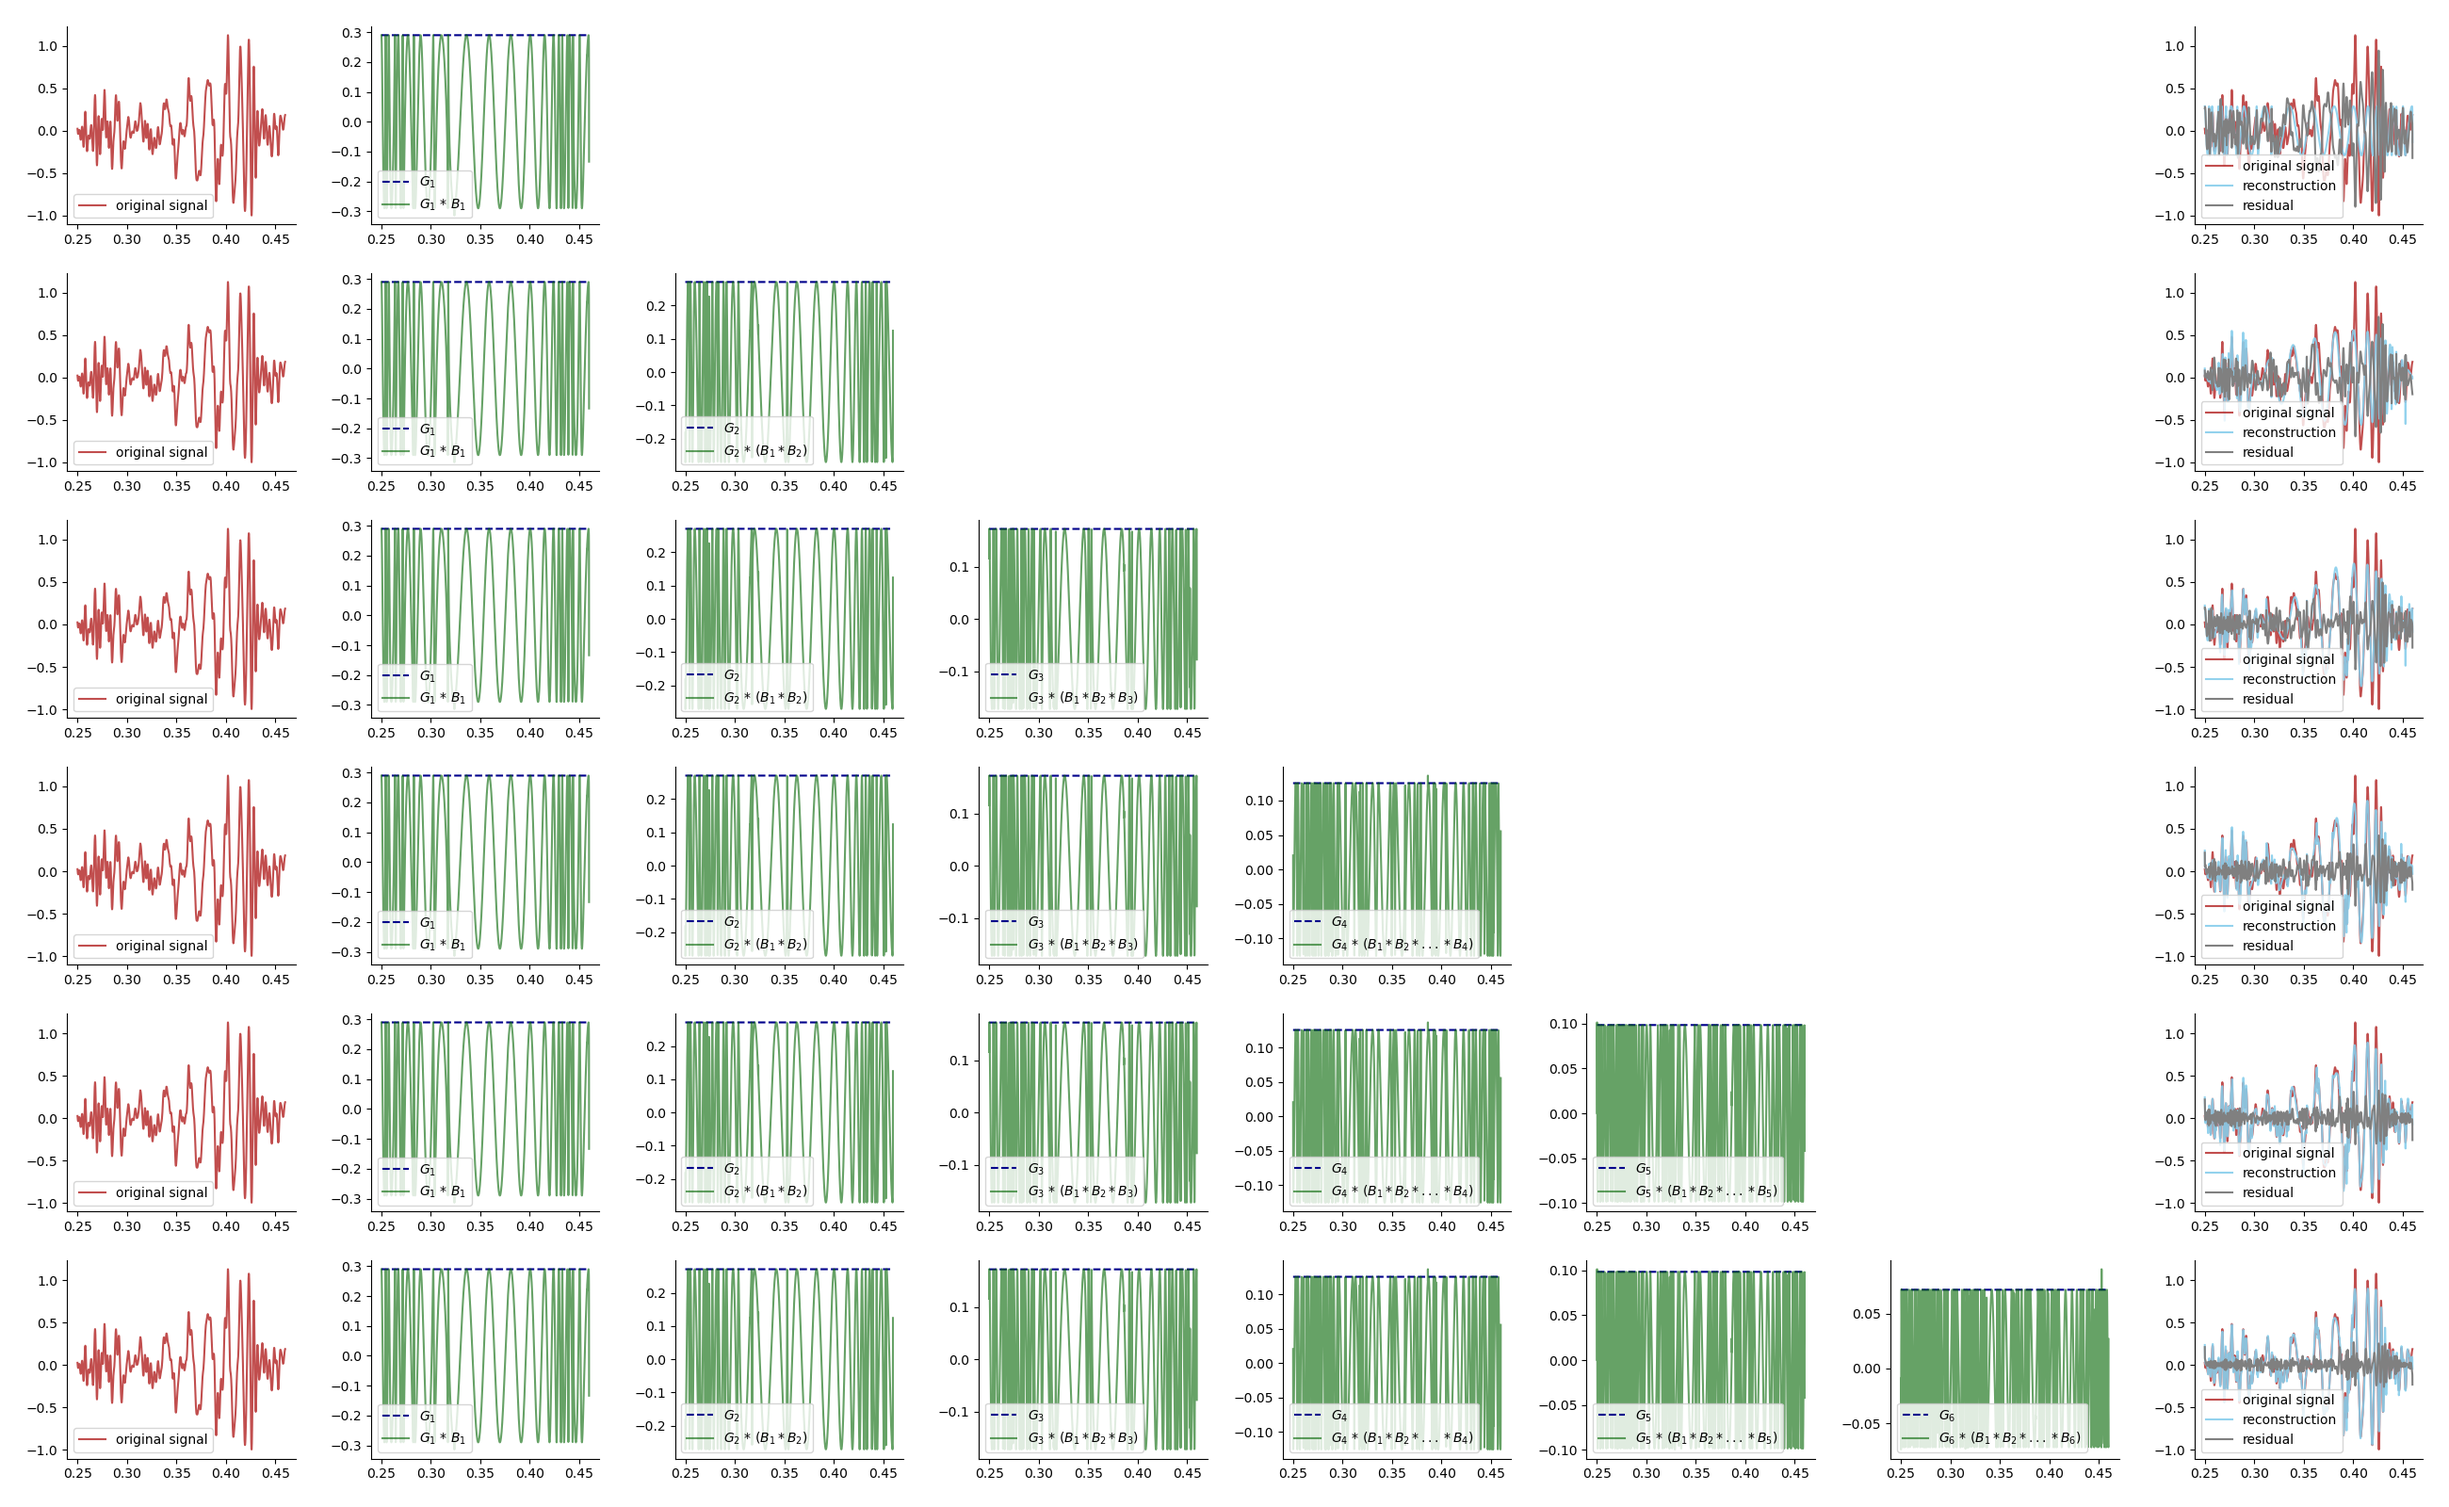
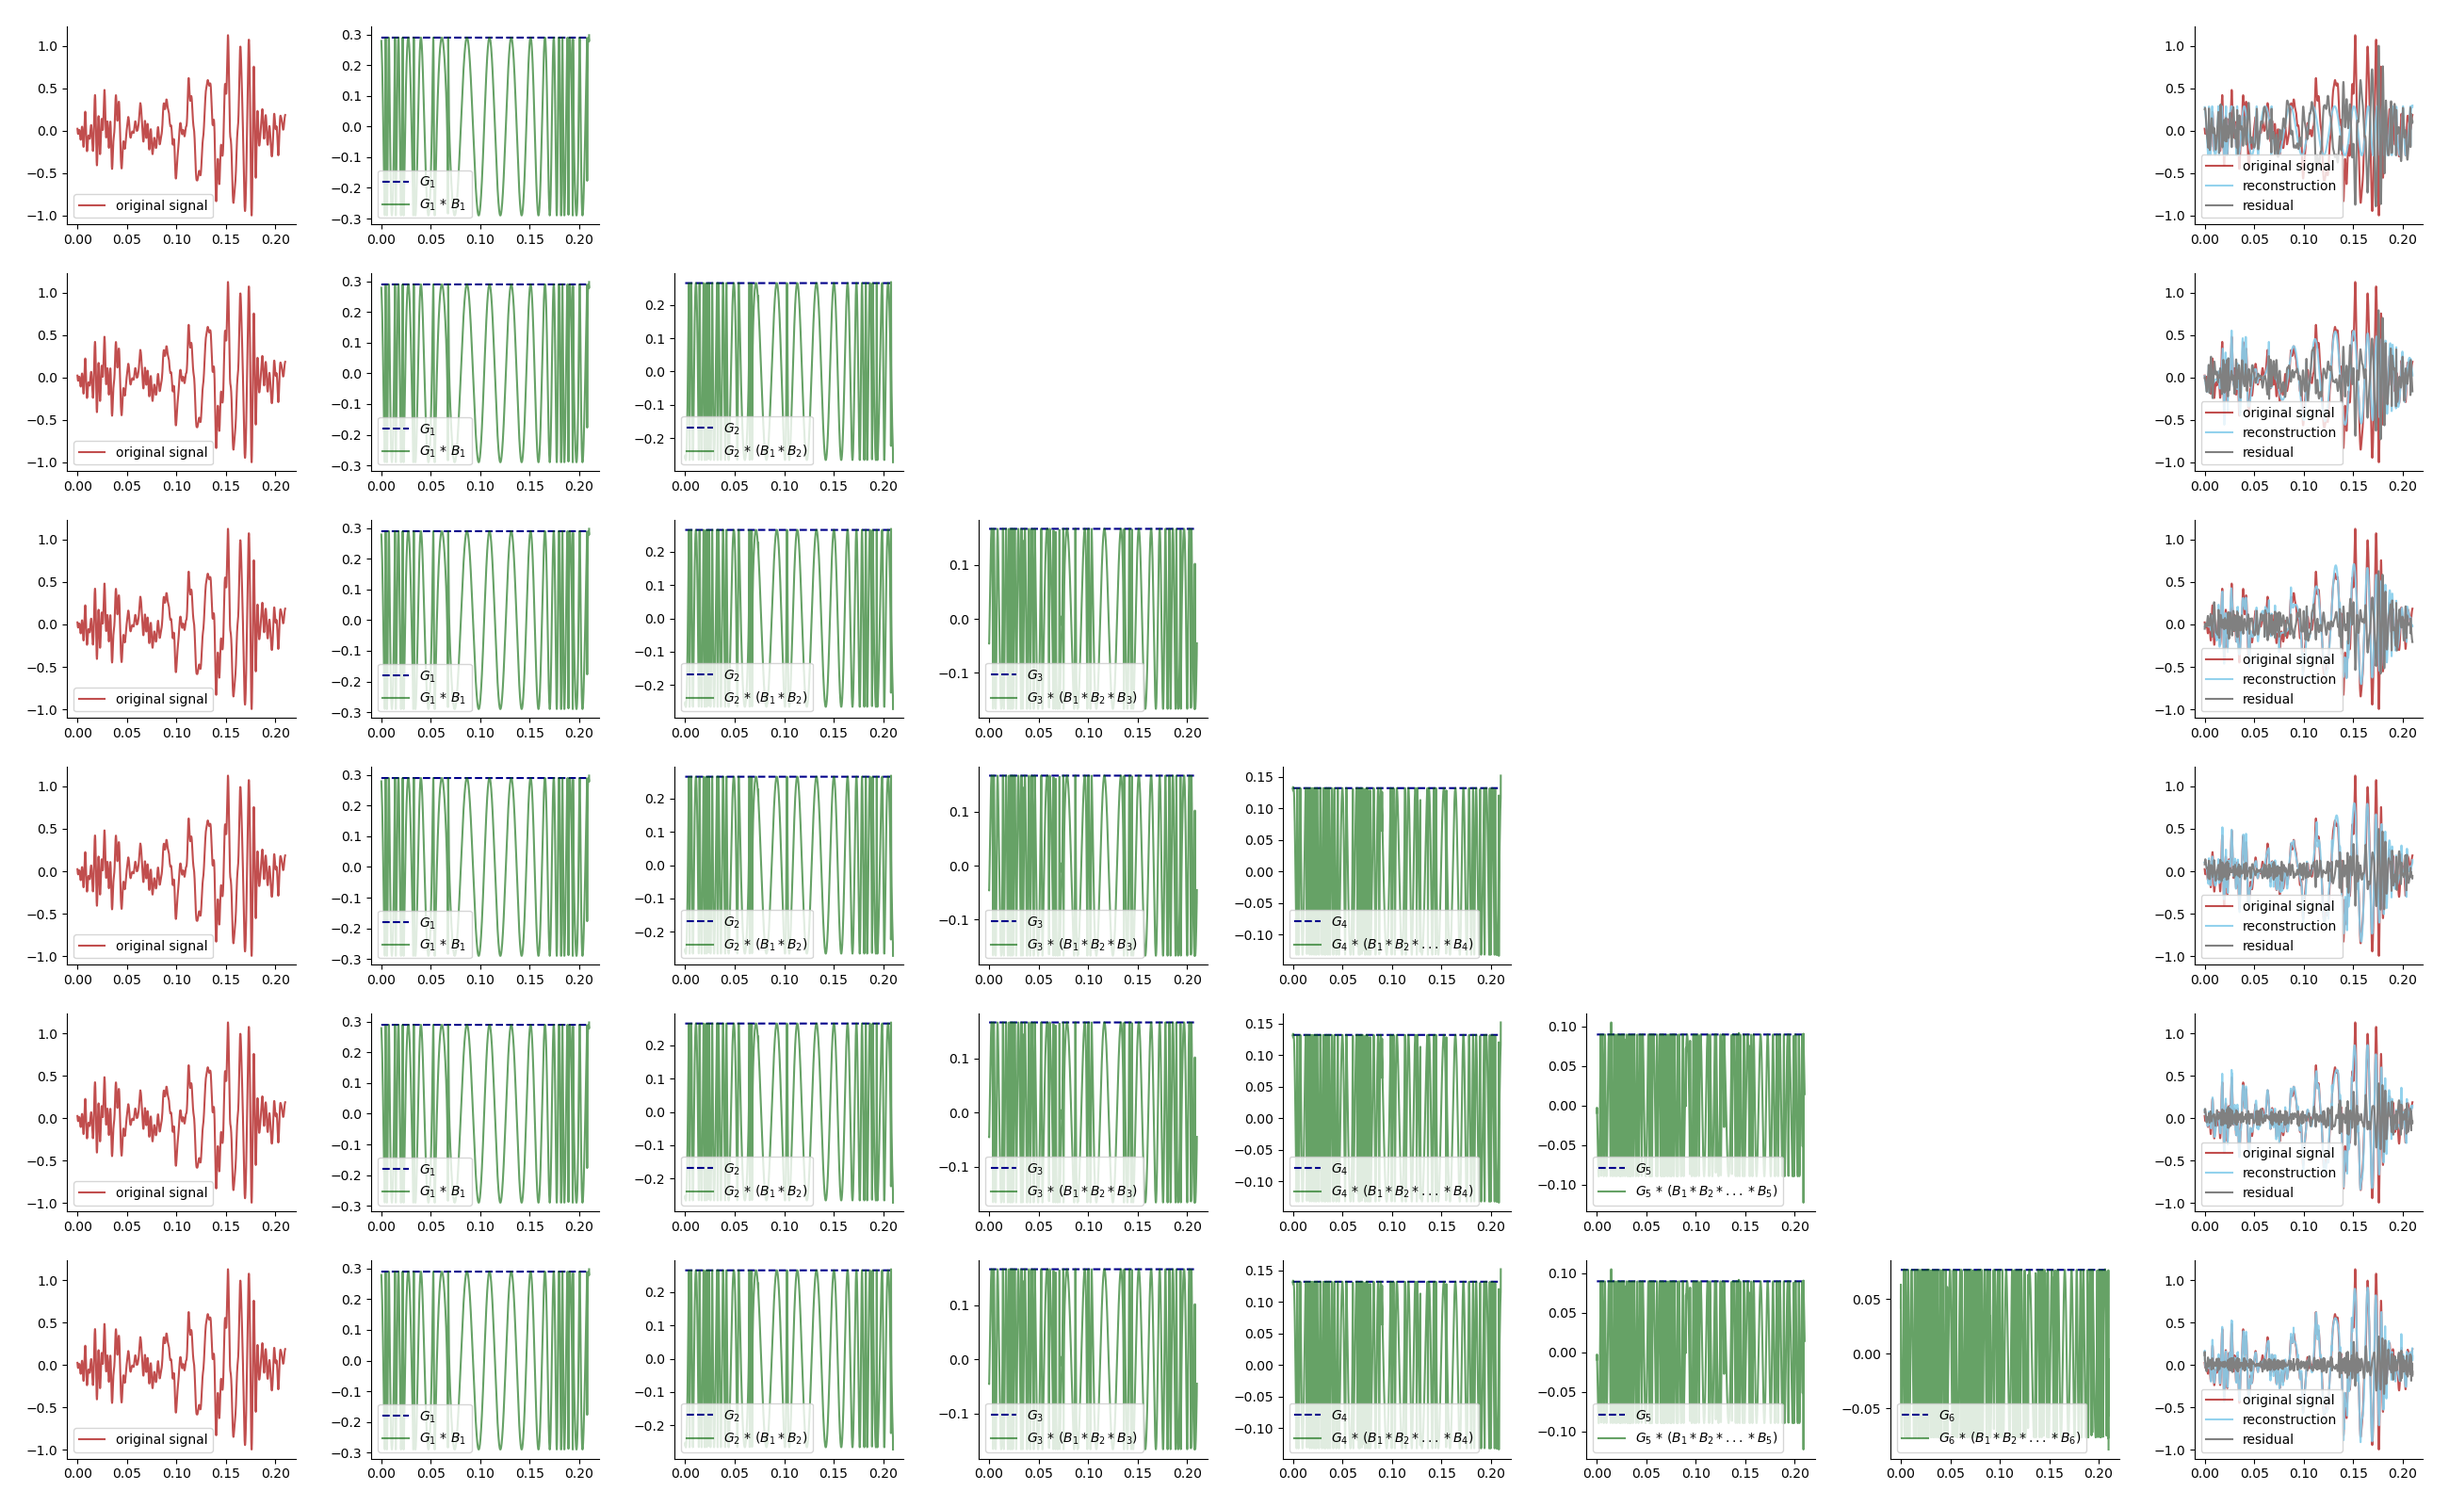
extending analytical to 1/2/3D

diff --git a/src/analytical/analytical_decomposition.py b/src/analytical/analytical_decomposition.py
@@ -2,6 +2,7 @@ import numpy as np
 import pandas as pd
 import matplotlib.pyplot as plt
 from scipy.signal import hilbert
+from einops import rearrange
 
 
 def decompose_blaschke_factors(signal: np.ndarray,
@@ -83,8 +84,27 @@ def decompose_by_frequency(signal: np.ndarray,
 
     return high_freq_component, low_freq_component
 
+
+def complexify_signal(signal: np.ndarray, carrier_freq: float = 0) -> np.ndarray:
+    '''
+    Complexify the signal with Hilbert transform after removing zero-order drift
+    '''
+    assert len(signal.shape) == 2
+
+    signal = hilbert(signal - np.mean(signal, axis=1, keepdims=True))
+    # Frequency shifting by carrier frequency.
+    time_indices = np.arange(signal.shape[-1])
+    signal = signal * np.exp(1j * 2 * np.pi * carrier_freq * time_indices)
+    # Mitigate boundary effects. This is a common approach when performing Fourier analyses, spectral filtering, etc.
+    signal_boundary_smoothed = np.concatenate((signal, np.fliplr(np.conj(signal))), axis=1)
+    mask_nonnegative_freq = np.ones_like(signal_boundary_smoothed)
+    mask_nonnegative_freq[:, mask_nonnegative_freq.shape[1] // 2:] = 0
+    signal = np.fft.ifft(np.fft.fft(signal_boundary_smoothed) * mask_nonnegative_freq)
+    signal = signal[:, :signal.shape[1] // 2]
+    return signal
+
+
 def blaschke_decomposition(signal: np.ndarray,
-                           time: np.ndarray,
                            num_blaschke_iters: int,
                            fourier_poly_order: int,
                            oversampling_rate: int = 2,
@@ -108,8 +128,8 @@ def blaschke_decomposition(signal: np.ndarray,
     `curr_G` at each iteration corresponds to `G_i(z)`.
     When lowpass_order = 1, `low_freq_component` at each iteration will correspond to `s_i`.
 
-    signal: the input signal. Assume shape (signal_len,). CUrrently only support 1-channel signals.
-    time: the input time. Assume shape (signal_len,)
+    signal: the input signal.
+        Assume shape (signal_len,) or (num_channels, signal_len) or (batch_size, num_channels, signal_len).
     num_blaschke_iters: number of iterations of Blaschke decomposition. This gives (num_blaschke_iters - 1) Blaschke components.
     fourier_poly_order: the degree of Fourier polynomial. Used to truncated the functions B & G.
     oversampling_rate: oversampling rate
@@ -118,43 +138,53 @@ def blaschke_decomposition(signal: np.ndarray,
     eps: value of the threshold to cut the signal
     '''
 
-    # Complexify the signal with Hilbert transform after removing zero-order drift.
-    signal = hilbert(signal - np.mean(signal))
-    # Frequency shifting by carrier frequency.
-    signal = signal * np.exp(1j * 2 * np.pi * carrier_freq * time)
-    # Only keep the non-negative frequencies.
-    # signal_conjugate_symmetric = np.concatenate((signal, np.fliplr(np.conj(signal).reshape(1, -1)).squeeze()))
-    # mask_nonnegative_freq = np.ones(len(signal_conjugate_symmetric))
-    # mask_nonnegative_freq[int(len(signal_conjugate_symmetric)/2):] = 0
-    # signal = np.fft.ifft(np.fft.fft(signal_conjugate_symmetric) * mask_nonnegative_freq)
-    signal = signal.reshape(1, -1)
-    # import pdb; pdb.set_trace()
+    original_shape = signal.shape
+    if len(original_shape) == 1:
+        batch_size_times_num_channel = 1
+        signal = rearrange(signal, '(c l) -> c l', c=1)
+    elif len(original_shape) == 2:
+        batch_size_times_num_channel = original_shape[0]
+        pass
+    elif len(original_shape) == 3:
+        batch_size_times_num_channel = original_shape[0] * original_shape[1]
+        signal = rearrange(signal, 'b c l -> (b c) l')
+    else:
+        raise ValueError(f'Currently only supporting 1D/2D/3D signals, but got shape {original_shape}.')
 
-    num_channels, signal_len = signal.shape
-
-    if signal_len == 1:
-        raise ValueError('The signal must be saved as a row')
-    if min(num_channels, signal_len) > 1:
-        raise ValueError('The code only supports one channel signal right now')
+    signal = complexify_signal(signal=signal, carrier_freq=carrier_freq)
 
     # First iteration of decomposition.
     curr_high_freq_component, curr_low_freq_component = decompose_by_frequency(signal, fourier_poly_order, oversampling_rate, lowpass_order)
     curr_blaschke_factor, curr_G = decompose_blaschke_factors(curr_high_freq_component, fourier_poly_order, oversampling_rate, eps)
-    low_freq_component = curr_low_freq_component
-    blaschke_factor = curr_blaschke_factor
-    blaschke_product = curr_blaschke_factor
+    low_freq_component = curr_low_freq_component[None, ...]
+    blaschke_factor = curr_blaschke_factor[None, ...]
+    blaschke_product = curr_blaschke_factor[None, ...]
 
     # All remaining iterations.
     for _ in range(1, num_blaschke_iters):
-        curr_high_freq_component, curr_low_freq_component = decompose_by_frequency(curr_G.reshape(1, -1), fourier_poly_order, oversampling_rate, lowpass_order)
+        curr_high_freq_component, curr_low_freq_component = decompose_by_frequency(curr_G, fourier_poly_order, oversampling_rate, lowpass_order)
         curr_blaschke_factor, curr_G = decompose_blaschke_factors(curr_high_freq_component, fourier_poly_order, oversampling_rate, eps)
 
-        low_freq_component = np.concatenate((low_freq_component, curr_low_freq_component), axis=0)
-        blaschke_factor = np.concatenate((blaschke_factor, curr_blaschke_factor), axis=0)
-        blaschke_product = np.concatenate((blaschke_product, blaschke_product[-1] * curr_blaschke_factor), axis=0)
+        low_freq_component = np.concatenate((low_freq_component, curr_low_freq_component[None, ...]), axis=0)
+        blaschke_factor = np.concatenate((blaschke_factor, curr_blaschke_factor[None, ...]), axis=0)
+        blaschke_product = np.concatenate((blaschke_product, blaschke_product[-1, :, :][None, ...] * curr_blaschke_factor[None, ...]), axis=0)
 
-    low_freq_component = low_freq_component[:, :int(low_freq_component.shape[1]/2)]
-    blaschke_product = blaschke_product[:, :int(blaschke_product.shape[1]/2)] * np.tile(np.exp(-1j * 2 * np.pi * carrier_freq * time), (num_blaschke_iters, 1))
+    time_indices = np.arange(signal.shape[-1])
+    blaschke_product = blaschke_product * np.tile(np.exp(-1j * 2 * np.pi * carrier_freq * time_indices), (num_blaschke_iters, batch_size_times_num_channel, 1))
+
+    # NOTE: Now, the shapes of `low_freq_component`, `blaschke_factor`, `blaschke_product` are the same:
+    # [num_blaschke_iters, batch_size * num_channel, signal_len].
+
+    if len(original_shape) == 1:
+        low_freq_component = rearrange(low_freq_component, 'i 1 l -> i l')
+        blaschke_factor = rearrange(blaschke_factor, 'i 1 l -> i l')
+        blaschke_product = rearrange(blaschke_product, 'i 1 l -> i l')
+    elif len(original_shape) == 2:
+        pass
+    elif len(original_shape) == 3:
+        low_freq_component = rearrange(low_freq_component, 'i (b c) l -> i b c l', b=original_shape[0], c=original_shape[1])
+        blaschke_factor = rearrange(blaschke_factor, 'i (b c) l -> i b c l', b=original_shape[0], c=original_shape[1])
+        blaschke_product = rearrange(blaschke_product, 'i (b c) l -> i b c l', b=original_shape[0], c=original_shape[1])
 
     return low_freq_component, blaschke_factor, blaschke_product
 
@@ -178,7 +208,7 @@ if __name__ == '__main__':
     # Load the signal.
     test_signal_file = '../../data/gravitational_wave_HanfordH1.txt'
     signal_df = pd.read_csv(test_signal_file, sep=' ', header=None)
-    time_arr = np.array(signal_df[0])
+    time_arr = np.array(signal_df[0]) - np.min(signal_df[0])
     signal_arr = np.array(signal_df[1])
 
     # Parameters for Blaschke decomposition.
@@ -191,14 +221,14 @@ if __name__ == '__main__':
     # Blaschke decomposition.
     low_freq_component, _, blaschke_product = blaschke_decomposition(
         signal=signal_arr,
-        time=time_arr,
         num_blaschke_iters=num_blaschke_iters,
-        fourier_poly_order=len(signal_arr),
+        fourier_poly_order=signal_arr.shape[-1],
         oversampling_rate=oversampling_rate,
         lowpass_order=lowpass_order,
         carrier_freq=carrier_freq)
 
     fig, ax = plt.subplots(blaschke_order, blaschke_order + 2, figsize = (26, 16))
+    signal_arr = signal_arr.reshape(-1)  # For plotting purposes.
     for total_order in range(blaschke_order):
         ax[total_order, 0].plot(time_arr, signal_arr, label = 'original signal', color='firebrick', alpha=0.8)
         ax[total_order, 0].legend(loc='lower left')

diff --git a/src/models/BN1d.py b/src/models/BN1d.py
@@ -268,6 +268,25 @@ class BlaschkeNetwork1d(nn.Module):
         signal = torch.from_numpy(signal).to(x.device)
         return signal
 
+def complexify_signal(signal: np.ndarray, carrier_freq: float = 0) -> np.ndarray:
+    '''
+    Complexify the signal with Hilbert transform after removing zero-order drift
+    '''
+    assert len(signal.shape) == 2
+
+    signal = hilbert(signal - np.mean(signal, axis=1, keepdims=True))
+    # Frequency shifting by carrier frequency.
+    time_indices = np.arange(signal.shape[-1])
+    signal = signal * np.exp(1j * 2 * np.pi * carrier_freq * time_indices)
+    # Mitigate boundary effects. This is a common approach when performing Fourier analyses, spectral filtering, etc.
+    signal_boundary_smoothed = np.concatenate((signal, np.fliplr(np.conj(signal))), axis=1)
+    mask_nonnegative_freq = np.ones_like(signal_boundary_smoothed)
+    mask_nonnegative_freq[:, mask_nonnegative_freq.shape[1] // 2:] = 0
+    signal = np.fft.ifft(np.fft.fft(signal_boundary_smoothed) * mask_nonnegative_freq)
+    signal = signal[:, :signal.shape[1] // 2]
+    return signal
+
+
     def forward(self, x: torch.Tensor) -> torch.Tensor:
         '''
         Args:
